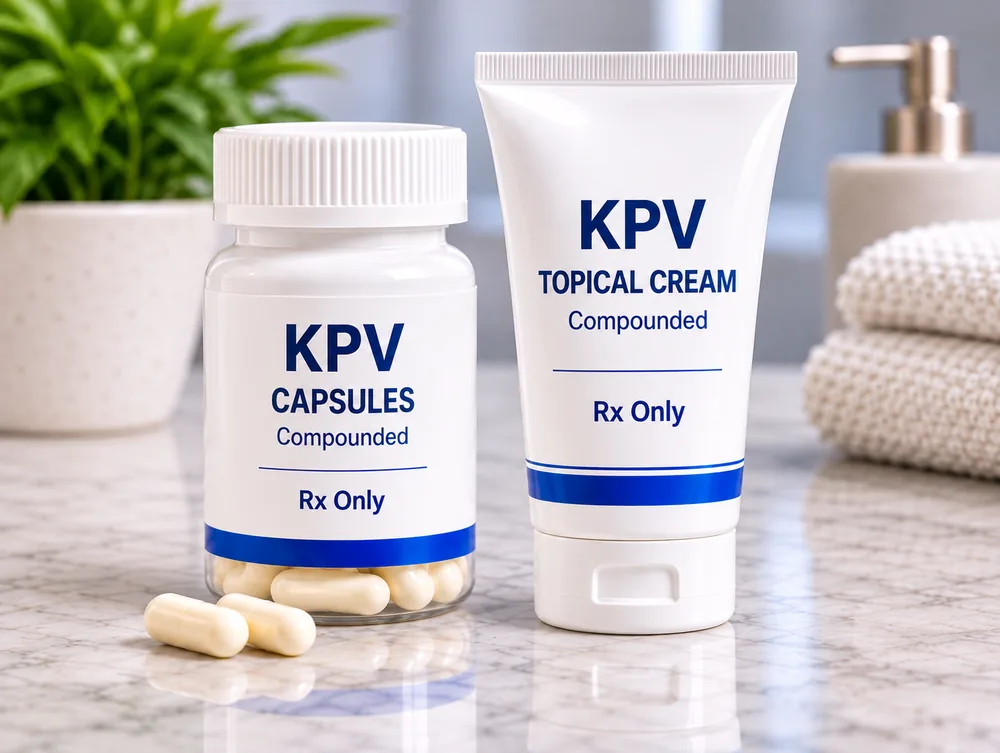
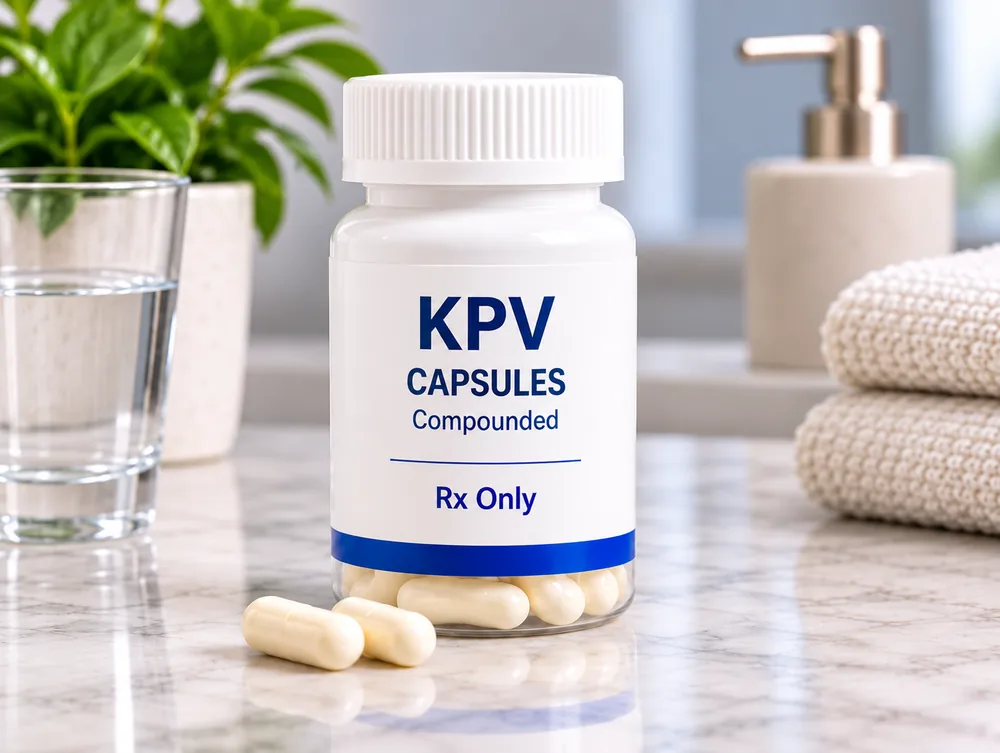
feat(peptides): KPV is capsules only
Owner, 2026-11-21: KPV is offered as oral capsules only. The card, product page
and phone card use Derek's capsules photo and the 'Oral Capsules' form, and
the FAQ no longer mentions a cream.

diff --git a/wellpeps-site/src/data/peptides.ts b/wellpeps-site/src/data/peptides.ts
@@ -95,7 +95,8 @@ export const peptidesPage: PeptidesPage = {
     footnote: 'Pricing and supply length are shown before you pay at checkout.',
     anchor: 'peptides-products',
     priceExtra: null,
-    // 3-month prepaid plans on every card with one pharmacy form (KPV waits: its card covers capsules AND cream).
+    // 3-month prepaid plans on BPC-157, TB-500, MOTS-c, Semax and Epitalon (owner, 2026-11-18). KPV is capsules only
+    // since 2026-11-21; it gets a plan toggle once the owner confirms a 3-month plan for it.
     // Collapsing "View details" cards were tried 2026-11-18 and dropped 2026-11-19 (Derek): full standard cards.
     // Derek's cards, in his order. Titles are the PRODUCT_DISCLOSURES keys; slugged, the PRODUCT_LINKS keys.
     items: [
@@ -138,9 +139,10 @@ export const peptidesPage: PeptidesPage = {
         name: 'KPV',
         subtitle: 'Inflammation & Skin Health',
         image: '/images/peptides/product-kpv.webp',
-        alt: 'A bottle of compounded KPV capsules beside a tube of KPV topical cream',
+        alt: 'A bottle of compounded KPV capsules on a marble counter',
         description: 'KPV is a naturally occurring peptide fragment being studied for its potential role in inflammatory processes, skin health, and gastrointestinal wellness.',
-        methodOfUse: 'Oral Capsules & Topical Cream',
+        // Capsules only (owner, 2026-11-21); the topical cream is not offered.
+        methodOfUse: 'Oral Capsules',
         features: ['Studied for its potential anti-inflammatory properties', 'Research involving skin and gastrointestinal health', ...PRODUCT_FEATURES],
       },
       {
@@ -234,7 +236,7 @@ export const peptidesPage: PeptidesPage = {
     },
     {
       q: 'How are peptide therapies taken?',
-      a: 'It depends on the product: some are injected, some are taken as a nasal spray, and some come as oral capsules or a topical cream. If a treatment is prescribed, your provider explains how and when to use it.',
+      a: 'It depends on the product: most are injected, one is a nasal spray, and one is taken as capsules by mouth. If a treatment is prescribed, your provider explains how and when to use it.',
     },
     {
       q: 'Are there side effects or risks?',
